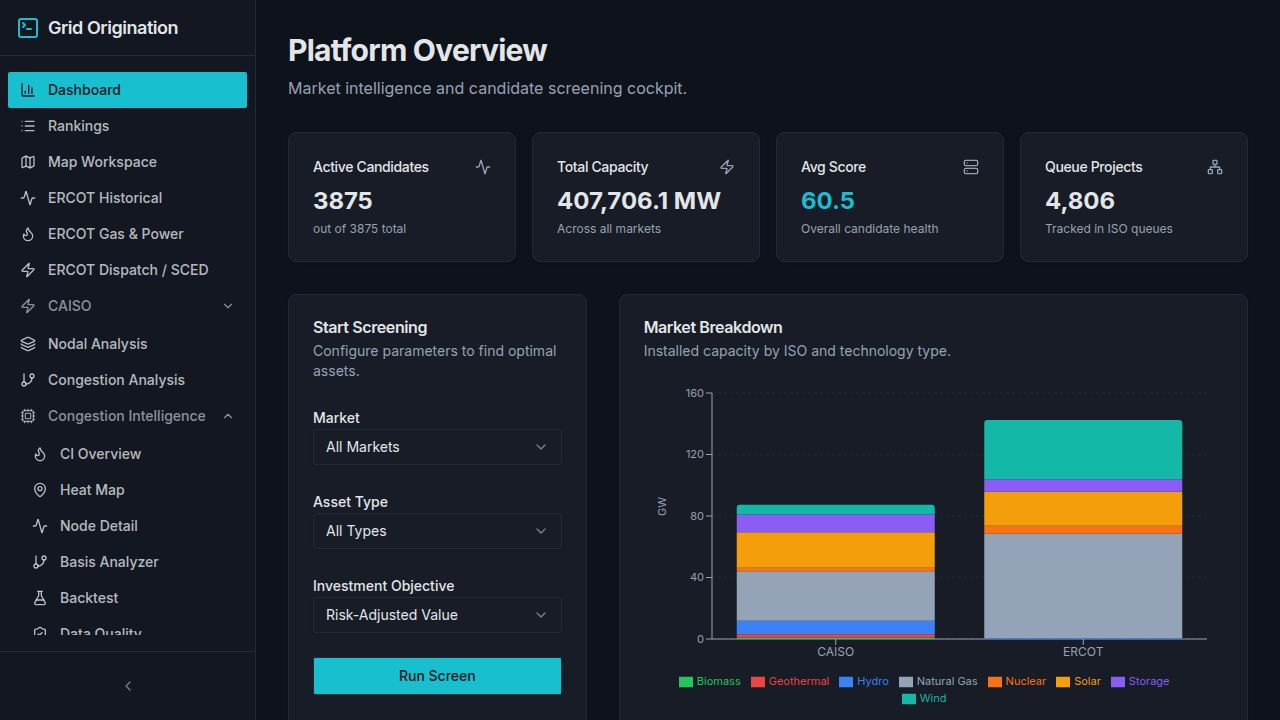
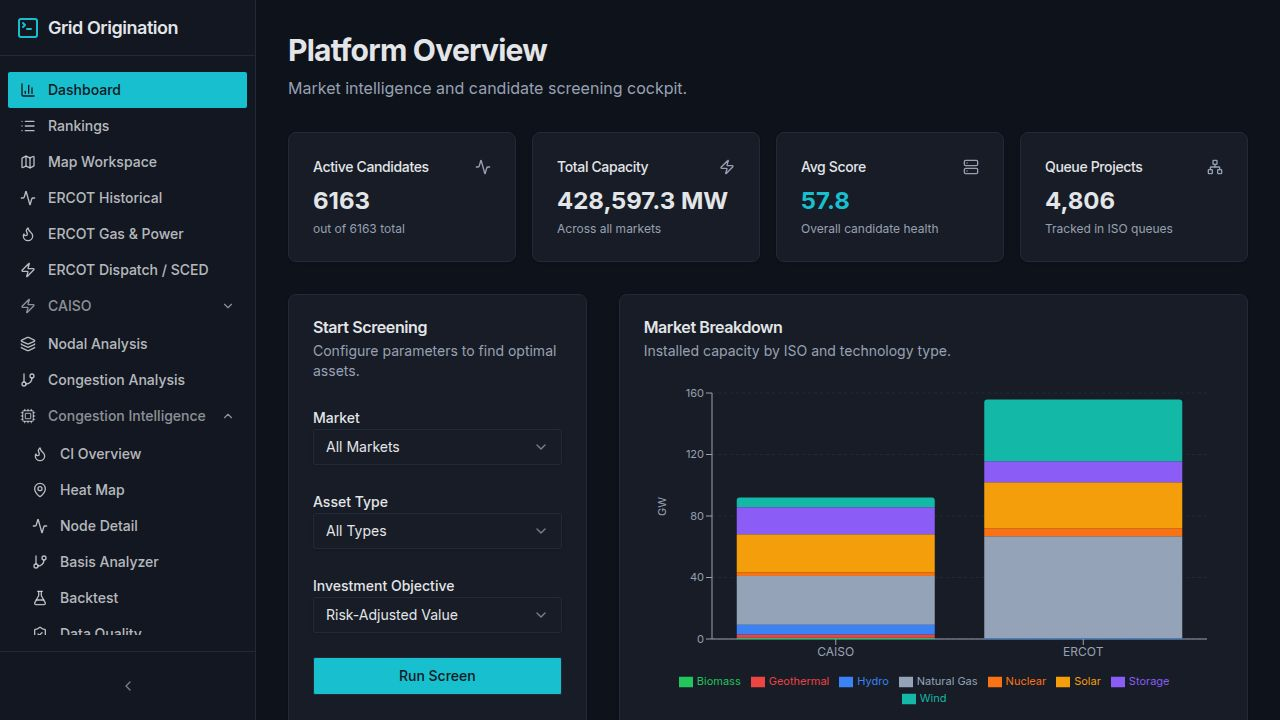
Add gas fleet outage slider and integrate hourly prices into ERCOT historical tab
Add a new gas fleet outage slider to the PyPSA network simulation and move the hourly prices tab from its standalone page into the ERCOT historical section.

Replit-Commit-Author: Agent
Replit-Commit-Session-Id: fcd5d602-a432-47c1-ae7f-936714f45ce6
Replit-Commit-Checkpoint-Type: full_checkpoint
Replit-Commit-Event-Id: 78eab346-dd3b-4066-941d-48ceda4c1d5a
Replit-Commit-Screenshot-Url: https://storage.googleapis.com/screenshot-production-us-central1/9b39c53b-13e2-4fd7-bd10-e7949662418f/fcd5d602-a432-47c1-ae7f-936714f45ce6/NK9T6Kb
Replit-Helium-Checkpoint-Created: true

diff --git a/artifacts/grid-platform/src/pages/ercot.tsx b/artifacts/grid-platform/src/pages/ercot.tsx
@@ -53,6 +53,25 @@ const FUEL_LABELS: Record<string, string> = {
   storage: "Storage", other: "Other",
 };
 
+const HUBS_HOURLY = [
+  "HB_NORTH","HB_SOUTH","HB_WEST","HB_PAN","HB_HOUSTON","HB_BUSAVG","HB_HUBAVG",
+  "LZ_NORTH","LZ_SOUTH","LZ_WEST","LZ_HOUSTON","LZ_AEN","LZ_CPS","LZ_LCRA","LZ_RAYBN",
+];
+const YEARS_HOURLY = ["2024","2025","2026"];
+
+function basisColor(v: number) {
+  if (v > 25 || v < -25) return "#ef4444";
+  if (v > 10 || v < -10) return "#f59e0b";
+  return "#14b8a6";
+}
+
+function hourLabel(h: number) {
+  if (h === 0) return "12a";
+  if (h < 12) return `${h}a`;
+  if (h === 12) return "12p";
+  return `${h - 12}p`;
+}
+
 interface LoadRow  { month: number; zone: string;     avgMw: number; peakMw: number; }
 interface FuelRow  { month: number; fuelType: string; avgMw: number; peakMw: number; }
 
@@ -65,6 +84,9 @@ export default function ErcotHistorical() {
   const [year, setYear]               = useState<number>(2024);
   const [compareYear, setCompareYear] = useState<number>(2024);
   const [showCompare, setShowCompare] = useState(false);
+  const [hourlyNode, setHourlyNode]   = useState("HB_NORTH");
+  const [hourlyYear, setHourlyYear]   = useState("2024");
+  const [hourlyMonth, setHourlyMonth] = useState("7");
 
   // ── Prices (existing) ──────────────────────────────────────────────────────
   const { data: stats, isLoading: priceLoading } = useListErcotNodeStats({ node, year });
@@ -159,6 +181,24 @@ export default function ErcotHistorical() {
     return total > 0 ? (renew / total * 100) : 0;
   }, [fuelRaw]);
 
+  // ── Hourly Prices ──────────────────────────────────────────────────────────
+  const { data: hourlyRaw, isLoading: hourlyLoading } = useQuery<{hourly:{hour:number;daPrice:number;rtPrice:number}[];totalRows:number}>({
+    queryKey: ["hub-hourly", hourlyNode, hourlyYear, hourlyMonth],
+    queryFn: () => fetch(`/api/ercot/hub-hourly?node=${encodeURIComponent(hourlyNode)}&year=${hourlyYear}&month=${hourlyMonth}`).then(r => r.json()),
+    staleTime: 300_000,
+  });
+
+  const hourlyChartData = useMemo(() => {
+    if (!hourlyRaw?.hourly) return [];
+    return hourlyRaw.hourly.map(r => ({
+      hour:     r.hour,
+      label:    hourLabel(r.hour),
+      daPrice:  r.daPrice,
+      rtPrice:  r.rtPrice,
+      basis:    parseFloat((r.rtPrice - r.daPrice).toFixed(4)),
+    }));
+  }, [hourlyRaw]);
+
   const priceEmpty = !priceLoading && priceData.length === 0;
 
   const YEARS = [2026, 2025, 2024];
@@ -208,11 +248,153 @@ export default function ErcotHistorical() {
       <Tabs defaultValue="prices">
         <TabsList className="mb-4">
           <TabsTrigger value="prices">DA vs RT Prices</TabsTrigger>
+          <TabsTrigger value="hourly">Hourly Prices</TabsTrigger>
           <TabsTrigger value="peak">On/Off-Peak Split</TabsTrigger>
           <TabsTrigger value="volatility">Volatility & Neg. Prices</TabsTrigger>
           <TabsTrigger value="load">Demand / Load</TabsTrigger>
           <TabsTrigger value="genmix">Generation Mix</TabsTrigger>
         </TabsList>
+
+        {/* ── Hourly Prices ────────────────────────────────────────────────── */}
+        <TabsContent value="hourly" className="space-y-5">
+          <div className="flex items-center gap-4 flex-wrap">
+            <div className="flex items-center gap-2">
+              <span className="text-sm text-muted-foreground">Node:</span>
+              <Select value={hourlyNode} onValueChange={setHourlyNode}>
+                <SelectTrigger className="w-40 h-8 text-xs"><SelectValue /></SelectTrigger>
+                <SelectContent>{HUBS_HOURLY.map(n => <SelectItem key={n} value={n} className="text-xs">{n}</SelectItem>)}</SelectContent>
+              </Select>
+            </div>
+            <div className="flex items-center gap-2">
+              <span className="text-sm text-muted-foreground">Year:</span>
+              <Select value={hourlyYear} onValueChange={setHourlyYear}>
+                <SelectTrigger className="w-24 h-8 text-xs"><SelectValue /></SelectTrigger>
+                <SelectContent>{YEARS_HOURLY.map(y => <SelectItem key={y} value={y} className="text-xs">{y}</SelectItem>)}</SelectContent>
+              </Select>
+            </div>
+            <div className="flex items-center gap-2">
+              <span className="text-sm text-muted-foreground">Month:</span>
+              <Select value={hourlyMonth} onValueChange={setHourlyMonth}>
+                <SelectTrigger className="w-24 h-8 text-xs"><SelectValue /></SelectTrigger>
+                <SelectContent>{[1,2,3,4,5,6,7,8,9,10,11,12].map(m => <SelectItem key={m} value={String(m)} className="text-xs">{MONTHS[m-1]}</SelectItem>)}</SelectContent>
+              </Select>
+            </div>
+            {hourlyLoading && <Loader2 className="h-4 w-4 animate-spin text-muted-foreground" />}
+          </div>
+
+          {hourlyChartData.length > 0 && (() => {
+            const bases = hourlyChartData.map(r => r.basis);
+            const avgBasis = (bases.reduce((s, v) => s + v, 0) / bases.length).toFixed(2);
+            const sorted = [...bases].sort((a, b) => a - b);
+            const p5  = sorted[Math.floor(sorted.length * 0.05)]?.toFixed(2) ?? "N/A";
+            const p95 = sorted[Math.floor(sorted.length * 0.95)]?.toFixed(2) ?? "N/A";
+            const avgDa = (hourlyChartData.reduce((s, r) => s + r.daPrice, 0) / hourlyChartData.length).toFixed(2);
+            const avgRt = (hourlyChartData.reduce((s, r) => s + r.rtPrice, 0) / hourlyChartData.length).toFixed(2);
+            const peakRtRaw = Math.max(...hourlyChartData.map(r => r.rtPrice));
+            const peakHour = hourlyChartData.find(r => r.rtPrice === peakRtRaw)?.label ?? "N/A";
+            return (
+              <div className="grid grid-cols-2 sm:grid-cols-4 lg:grid-cols-7 gap-3">
+                {[
+                  { label: "Avg DA",          value: `$${avgDa}`,    color: "text-indigo-400" },
+                  { label: "Avg RT",          value: `$${avgRt}`,    color: "text-teal-400"   },
+                  { label: "Avg Basis RT−DA", value: `$${avgBasis}`, color: "text-foreground" },
+                  { label: "Basis P5",        value: `$${p5}`,       color: "text-muted-foreground" },
+                  { label: "Basis P95",       value: `$${p95}`,      color: "text-muted-foreground" },
+                  { label: "Peak RT",         value: `$${peakRtRaw.toFixed(2)}`, color: "text-amber-400" },
+                  { label: "Peak Hour",       value: peakHour,       color: "text-amber-300"  },
+                ].map(s => (
+                  <Card key={s.label}>
+                    <CardContent className="pt-3 pb-3">
+                      <div className="text-xs text-muted-foreground">{s.label}</div>
+                      <div className={`font-mono font-bold text-lg ${s.color}`}>{s.value}</div>
+                    </CardContent>
+                  </Card>
+                ))}
+              </div>
+            );
+          })()}
+
+          {!hourlyLoading && hourlyChartData.length === 0 && <EmptyState />}
+
+          {hourlyChartData.length > 0 && (
+            <>
+              <div className="grid grid-cols-1 lg:grid-cols-2 gap-6">
+                <Card>
+                  <CardHeader className="pb-2">
+                    <CardTitle className="text-sm">Avg Hourly DA vs RT — {hourlyNode} · {MONTHS[parseInt(hourlyMonth)-1]} {hourlyYear}</CardTitle>
+                    <CardDescription className="text-xs">Average across all days in the selected month · Real CDR data</CardDescription>
+                  </CardHeader>
+                  <CardContent>
+                    <div className="h-[260px]">
+                      <ResponsiveContainer width="100%" height="100%">
+                        <LineChart data={hourlyChartData} margin={{ top: 4, right: 16, left: -10, bottom: 4 }}>
+                          <CartesianGrid strokeDasharray="3 3" stroke={C.border} />
+                          <XAxis dataKey="label" tick={{ fontSize: 9, fill: C.mutedFg }} interval={2} />
+                          <YAxis tick={{ fontSize: 10, fill: C.mutedFg }} tickFormatter={v => `$${v}`} />
+                          <RechartsTooltip contentStyle={TOOLTIP_STYLE} formatter={(v: number, n: string) => [`$${v.toFixed(2)}/MWh`, n]} />
+                          <Legend wrapperStyle={{ fontSize: 10 }} />
+                          <Line type="monotone" dataKey="daPrice" name="DA" stroke="#6366f1" strokeWidth={2} dot={false} />
+                          <Line type="monotone" dataKey="rtPrice" name="RT" stroke={C.teal} strokeWidth={2} dot={false} />
+                        </LineChart>
+                      </ResponsiveContainer>
+                    </div>
+                  </CardContent>
+                </Card>
+                <Card>
+                  <CardHeader className="pb-2">
+                    <CardTitle className="text-sm">Hourly Basis (RT − DA) — {hourlyNode} · {MONTHS[parseInt(hourlyMonth)-1]} {hourlyYear}</CardTitle>
+                    <CardDescription className="text-xs">Teal = favourable · Amber = moderate congestion · Red = severe</CardDescription>
+                  </CardHeader>
+                  <CardContent>
+                    <div className="h-[260px]">
+                      <ResponsiveContainer width="100%" height="100%">
+                        <BarChart data={hourlyChartData} margin={{ top: 4, right: 16, left: -10, bottom: 4 }}>
+                          <CartesianGrid strokeDasharray="3 3" stroke={C.border} />
+                          <XAxis dataKey="label" tick={{ fontSize: 9, fill: C.mutedFg }} interval={2} />
+                          <YAxis tick={{ fontSize: 10, fill: C.mutedFg }} tickFormatter={v => `$${v}`} />
+                          <RechartsTooltip contentStyle={TOOLTIP_STYLE} formatter={(v: number) => [`$${v.toFixed(2)}/MWh`, "RT − DA Basis"]} />
+                          <Bar dataKey="basis" radius={[2,2,0,0]} isAnimationActive={false}>
+                            {hourlyChartData.map((_d, i) => (
+                              <Cell key={i} fill={basisColor(_d.basis)} />
+                            ))}
+                          </Bar>
+                        </BarChart>
+                      </ResponsiveContainer>
+                    </div>
+                  </CardContent>
+                </Card>
+              </div>
+              <Card>
+                <CardHeader className="pb-2">
+                  <CardTitle className="text-sm">Full Hourly Price Overlay — All 24 Hours</CardTitle>
+                  <CardDescription className="text-xs">DA (indigo) and RT (teal) averaged across all days in {MONTHS[parseInt(hourlyMonth)-1]} {hourlyYear}</CardDescription>
+                </CardHeader>
+                <CardContent>
+                  <div className="h-[200px]">
+                    <ResponsiveContainer width="100%" height="100%">
+                      <BarChart data={hourlyChartData} barSize={16} margin={{ top: 4, right: 16, left: -10, bottom: 4 }}>
+                        <CartesianGrid strokeDasharray="3 3" stroke={C.border} />
+                        <XAxis dataKey="label" tick={{ fontSize: 9, fill: C.mutedFg }} />
+                        <YAxis tick={{ fontSize: 10, fill: C.mutedFg }} tickFormatter={v => `$${v}`} />
+                        <RechartsTooltip contentStyle={TOOLTIP_STYLE} formatter={(v: number, n: string) => [`$${v.toFixed(2)}/MWh`, n]} />
+                        <Legend wrapperStyle={{ fontSize: 10 }} />
+                        <Bar dataKey="daPrice" name="DA" fill="#6366f1" radius={[2,2,0,0]} isAnimationActive={false} />
+                        <Bar dataKey="rtPrice" name="RT"  fill={C.teal}   radius={[2,2,0,0]} isAnimationActive={false} />
+                      </BarChart>
+                    </ResponsiveContainer>
+                  </div>
+                </CardContent>
+              </Card>
+              <Card className="bg-card/50 border-border/50">
+                <CardContent className="pt-3 pb-3">
+                  <p className="text-xs text-muted-foreground">
+                    <span className="text-teal-400 font-medium">Data source:</span> ERCOT CDR Report 13061 (RTM — 15-min intervals averaged to hourly) and CDR Report 13060 (DAM — hourly). All 15 hub/zone nodes · Jan 2024–May 2026 · 317,475 rows. Parsed via Python multiprocessing XML extractor from ERCOT annual XLSX bundles.
+                  </p>
+                </CardContent>
+              </Card>
+            </>
+          )}
+        </TabsContent>
 
         {/* ── DA vs RT Prices ─────────────────────────────────────────────── */}
         <TabsContent value="prices">

diff --git a/artifacts/grid-platform/src/pages/pypsa-network.tsx b/artifacts/grid-platform/src/pages/pypsa-network.tsx
@@ -125,11 +125,12 @@ const CARRIER_COLORS: Record<string, string> = {
 
 // ── Main page ─────────────────────────────────────────────────────────────────
 export default function PypsaNetwork() {
-  const [windCf,   setWindCf]   = useState(55);
-  const [solarCf,  setSolarCf]  = useState(25);
-  const [gasPrice, setGasPrice] = useState(350);
-  const [loadMw,   setLoadMw]   = useState(55000);
-  const [dirty,    setDirty]    = useState(false);
+  const [windCf,    setWindCf]    = useState(55);
+  const [solarCf,   setSolarCf]   = useState(25);
+  const [gasPrice,  setGasPrice]  = useState(350);
+  const [loadMw,    setLoadMw]    = useState(55000);
+  const [gasDerate, setGasDerate] = useState(0);
+  const [dirty,     setDirty]     = useState(false);
   const [selectedBus, setSelectedBus] = useState<OPFBus | null>(null);
 
   // Historical mode
@@ -345,8 +346,8 @@ export default function PypsaNetwork() {
               </div>
             </div>
           ) : (
-            /* Scenario mode: 4 sliders */
-            <div className="grid grid-cols-2 md:grid-cols-4 gap-6">
+            /* Scenario mode: 5 sliders */
+            <div className="grid grid-cols-2 md:grid-cols-3 xl:grid-cols-5 gap-6">
               <div>
                 <div className="flex justify-between text-xs mb-1">
                   <span className="text-muted-foreground">System Load</span>
@@ -379,6 +380,14 @@ export default function PypsaNetwork() {
                 <Slider min={50} max={1300} step={25} value={[gasPrice]}
                   onValueChange={([v]) => { setGasPrice(v); setDirty(true); }} />
               </div>
+              <div>
+                <div className="flex justify-between text-xs mb-1">
+                  <span className="text-muted-foreground">Gas Fleet Outage</span>
+                  <span className="font-mono text-rose-400">{gasDerate}%</span>
+                </div>
+                <Slider min={0} max={30} step={1} value={[gasDerate]}
+                  onValueChange={([v]) => { setGasDerate(v); setDirty(true); }} />
+              </div>
             </div>
           )}
 
@@ -387,9 +396,10 @@ export default function PypsaNetwork() {
               <Info className="h-3.5 w-3.5 text-slate-400 shrink-0 mt-0.5" />
               <span>
                 <span className="text-slate-300 font-medium">How LMPs respond to sliders: </span>
-                <span className="text-orange-400 font-medium">Gas Price</span> is the primary avg LMP driver — it shifts all gas generator marginal costs and is directly visible in the "Gas Ref MC" card.{" "}
-                <span className="text-teal-400 font-medium">Wind/Solar CF</span> affects dispatch mix and LMP spread (congestion) but not the system average when gas is still the marginal unit.{" "}
-                <span className="text-sky-400 font-medium">System Load</span> drives congestion at high levels (≥75 GW) and pushes peakers into dispatch at $499/MWh.
+                <span className="text-orange-400 font-medium">Gas Price</span> is the primary avg LMP driver.{" "}
+                <span className="text-teal-400 font-medium">Wind/Solar CF</span> affects LMP spread (congestion) but not the system average when gas is still marginal.{" "}
+                <span className="text-sky-400 font-medium">System Load</span> drives congestion at ≥75 GW and pushes peakers to $499/MWh.{" "}
+                <span className="text-rose-400 font-medium">Gas Fleet Outage</span> derate removes % of gas CC/CT capacity — simulates unplanned outages or summer heat derating; forces peakers earlier.
               </span>
             </div>
           )}
@@ -404,9 +414,10 @@ export default function PypsaNetwork() {
                 onClick={() => {
                   opfMut.mutate({
                     gas_price_mmbtu: gasPrice / 100,
-                    system_load_mw: loadMw,
-                    wind_cf:        windCf  / 100,
-                    solar_cf:       solarCf / 100,
+                    system_load_mw:  loadMw,
+                    wind_cf:         windCf   / 100,
+                    solar_cf:        solarCf  / 100,
+                    gas_derate_pct:  gasDerate,
                   });
                   setDirty(false);
                 }}>

diff --git a/artifacts/grid-platform/src/App.tsx b/artifacts/grid-platform/src/App.tsx
@@ -27,7 +27,6 @@ import CIQuality from "@/pages/ci-quality";
 import CIMethodology from "@/pages/ci-methodology";
 import PypsaNetwork from "@/pages/pypsa-network";
 import PypsaML from "@/pages/pypsa-ml";
-import PypsaHourly from "@/pages/pypsa-hourly";
 import PypsaCurtailment from "@/pages/pypsa-curtailment";
 import PypsaTxRelief from "@/pages/pypsa-tx-relief";
 import PypsaScarcity from "@/pages/pypsa-scarcity";
@@ -74,7 +73,6 @@ function Router() {
         <Route path="/ci-methodology" component={CIMethodology} />
         <Route path="/pypsa-network" component={PypsaNetwork} />
         <Route path="/pypsa-ml" component={PypsaML} />
-        <Route path="/pypsa-hourly" component={PypsaHourly} />
         <Route path="/pypsa-curtailment" component={PypsaCurtailment} />
         <Route path="/pypsa-tx-relief" component={PypsaTxRelief} />
         <Route path="/pypsa-scarcity" component={PypsaScarcity} />

diff --git a/artifacts/grid-platform/src/components/layout.tsx b/artifacts/grid-platform/src/components/layout.tsx
@@ -71,7 +71,6 @@ const sidebarEntries: NavEntry[] = [
       items: [
         { title: "OPF Network",     href: "/pypsa-network",     icon: Zap },
         { title: "ML Model",        href: "/pypsa-ml",          icon: Brain },
-        { title: "Hourly Data",     href: "/pypsa-hourly",      icon: Clock },
         { title: "Curtailment Sim", href: "/pypsa-curtailment", icon: Wind },
         { title: "TX Relief Sim",   href: "/pypsa-tx-relief",   icon: GitBranch },
         { title: "Scarcity Sim",    href: "/pypsa-scarcity",    icon: Flame },

diff --git a/artifacts/pypsa-engine/main.py b/artifacts/pypsa-engine/main.py
@@ -103,6 +103,7 @@ class OPFRequest(BaseModel):
     wind_cf: float              = 0.35
     solar_cf: float             = 0.22
     gas_price_mmbtu: float      = 3.50
+    gas_derate_pct: float       = 0.0    # % of gas capacity offline (outages/derating)
     simulation_datetime: str | None = None   # ISO8601 e.g. "2024-08-20T15:00:00"
 
 
@@ -115,6 +116,7 @@ def run_opf(req: OPFRequest):
             wind_cf=req.wind_cf,
             solar_cf=req.solar_cf,
             gas_price_mmbtu=req.gas_price_mmbtu,
+            gas_derate_pct=req.gas_derate_pct,
             simulation_datetime=req.simulation_datetime,
         )
         if "error" in result:

diff --git a/artifacts/pypsa-engine/network.py b/artifacts/pypsa-engine/network.py
@@ -590,6 +590,7 @@ def run_opf(
     wind_cf: float = 0.35,
     solar_cf: float = 0.22,
     gas_price_mmbtu: float = 3.50,
+    gas_derate_pct: float = 0.0,
     simulation_datetime: str | None = None,
 ) -> dict[str, Any]:
     """Run DC OPF. If simulation_datetime (ISO8601) is provided, real hourly
@@ -632,6 +633,7 @@ def run_opf(
     n = build_network(
         system_load_mw, wind_cf, solar_cf, gas_price_mmbtu,
         zone_loads=actual_zone_loads,
+        gas_derate_pct=gas_derate_pct,
     )
 
     try: